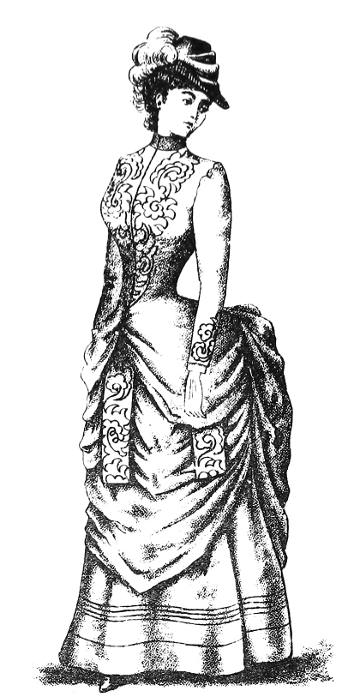
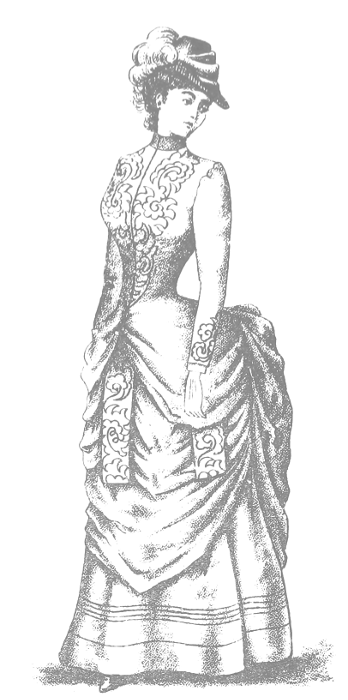
lightened images and improved product pages

Changed region(s): [[0.1149, 0.03, 0.9483, 0.99], [0.5747, 0.39, 0.6034, 0.42]]

diff --git a/hackney/hackney.html b/hackney/hackney.html
@@ -2,14 +2,15 @@
     <section class="tea-section">
         <div class="tea-container">
             <div class="tea-details">
-                <div class="tea-name">Hackney Whore</div>
+                <div class="tea-product-image"><img src="images/victorian.png"></div>
+                <div class="tea-name">Lovely Lass</div>
                 <div class="tea-type">Black Tea</div>
                 <div class="tea-tag">Practical - Strong - Warming</div>
                 <div class="tea-desc">She was a dreamy lass when she moved to the big city. When times got tough, so did she.
                     Still though, under that sharp nose and cutting sneer lies a warm heart and better dream of a good life.
                 </div>
             </div>
-            <div class="tea-image"><img src="images/victorian.png"></div>
+            <div class="tea-image"><img src="images/dandy-bag-02.jpg"></div>
         </div>
     </section>
 </div>

diff --git a/buddha/buddha.html b/buddha/buddha.html
@@ -2,6 +2,7 @@
     <section class="tea-section">
         <div class="tea-container">
             <div class="tea-details">
+                <div class="tea-product-image"><img src="images/buddha.jpg"></div>
                 <div class="tea-name">Laughing Buddha</div>
                 <div class="tea-type">Green Rice Tea</div>
                 <div class="tea-tag">Gentle - Nourishing - Simple</div>
@@ -11,7 +12,7 @@
                       The Buddha laughed and picked up his brush.
                 </div>
             </div>
-        <div class="tea-image"><img src="images/buddha.jpg"></div>
+        <div class="tea-image"><img src="images/dandy-bag-02.jpg"></div>
     </div>
     </section>
 </div>

diff --git a/app.css b/app.css
@@ -172,6 +172,11 @@ li {
     height: 800px;
 }
 
+.navbar-header {
+    display: flex;
+    justify-content: space-between;
+}
+
 .title-contact-us {
     font-family: 'Crimson Text', serif;
     font-size: 60px;

diff --git a/components/navbar/navbar.html b/components/navbar/navbar.html
@@ -1,4 +1,4 @@
-<header class="light">
+<header class="light navbar-header">
     <div class="brand-name">
         <a href="#/home">The Dumble Tea Company</a>
     </div>
